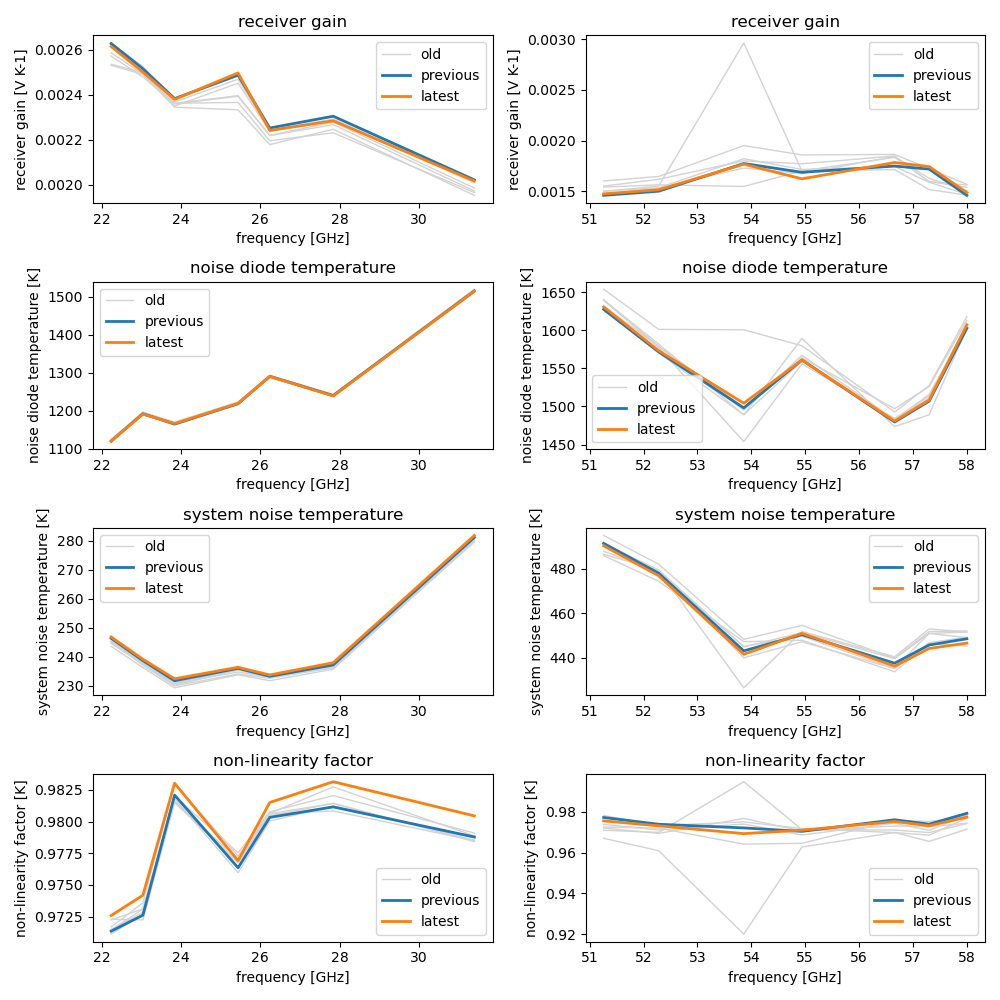
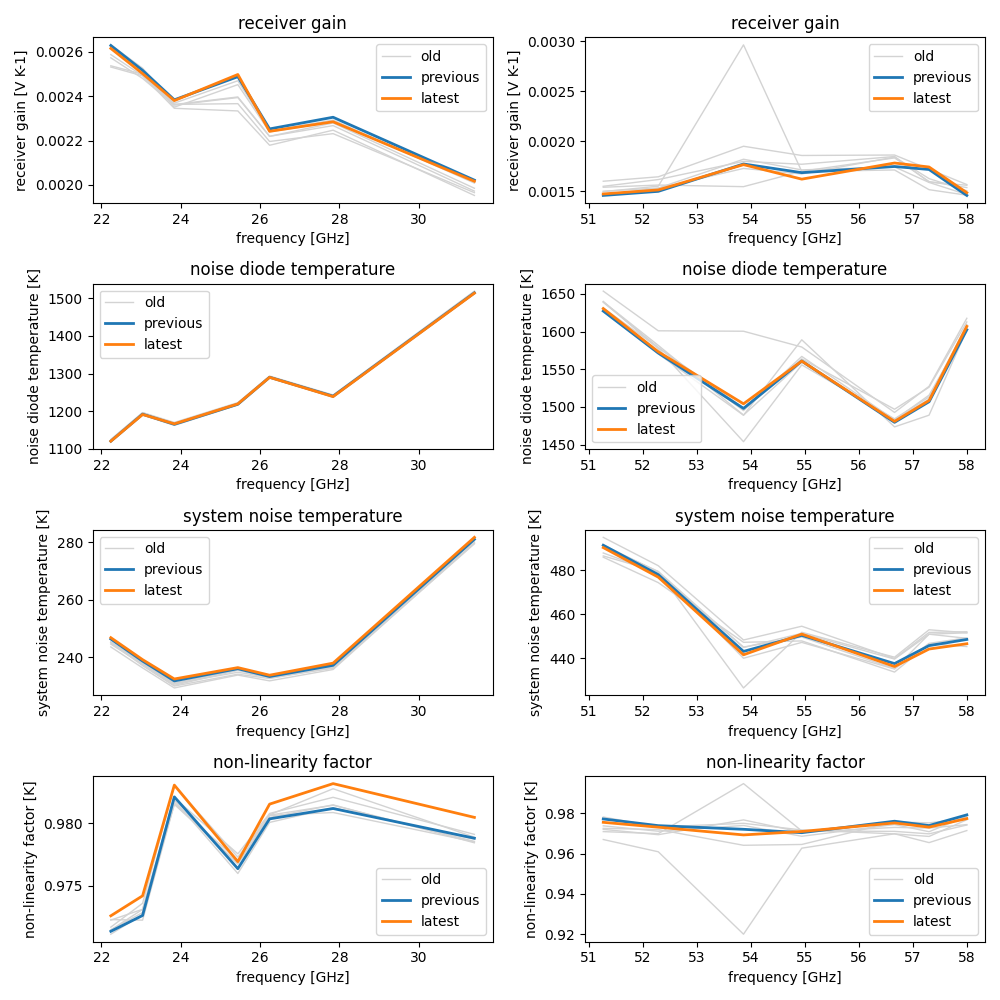
adjust user pathes with in and out

diff --git a/eval_ac/evaluate_absolute_calibration.py b/eval_ac/evaluate_absolute_calibration.py
@@ -4,16 +4,20 @@ microwave radiometer HATPRO from RPG
 """
 import matplotlib.pyplot as plt
 from eval_ac.convert_abscal_his import HatproBinAbscalHis
+import os
+
 
 # ### begin user specifications
-FILE = '../example_data/ABSCAL.HIS'
+BASE_DIR = os.path.dirname(os.path.abspath(__file__))
+FILE_in = os.path.join(BASE_DIR, "..", "example_data", "ABSCAL.HIS")
+FILE_out = os.path.join(BASE_DIR, "..", "example_data", "abscal.nc")
 # # plot specifications
 latest_plot_kwargs = {'lw': '2'}
 second_latest_plot_kwargs = {'lw': '2'}
 older_plot_kwargs = {'lw': '1', 'color': 'lightgrey'}
 # ### end user specifications
 
-obj = HatproBinAbscalHis(FILE)
+obj = HatproBinAbscalHis(FILE_in, FILE_out)
 
 ds_small = obj.xrdata[['gain', 'temp_noise', 'temp_sys', 'alpha']]
 

diff --git a/eval_ac/convert_abscal_his.py b/eval_ac/convert_abscal_his.py
@@ -9,9 +9,10 @@ from eval_ac.utils.attributes import FIELDS, ATTRIBUTES
 class HatproBinAbscalHis:
     """HATPRO binary file reader."""
 
-    def __init__(self, filename):
+    def __init__(self, filename, filename_out):
         self._file_position = None
         self.filename = filename
+        self.filename_out = filename_out
         # self._file_position = 0
         self.header = self.read_header()
         self.data = self.read_data()
@@ -24,7 +25,7 @@ class HatproBinAbscalHis:
 
     def write_nc(self):
         """Writes netcdf file"""
-        self.xrdata.to_netcdf('../example_data/abscal_his.nc')
+        self.xrdata.to_netcdf(self.filename_out)
 
     def add_global_attrs(self):
         """Adds global attributes"""
